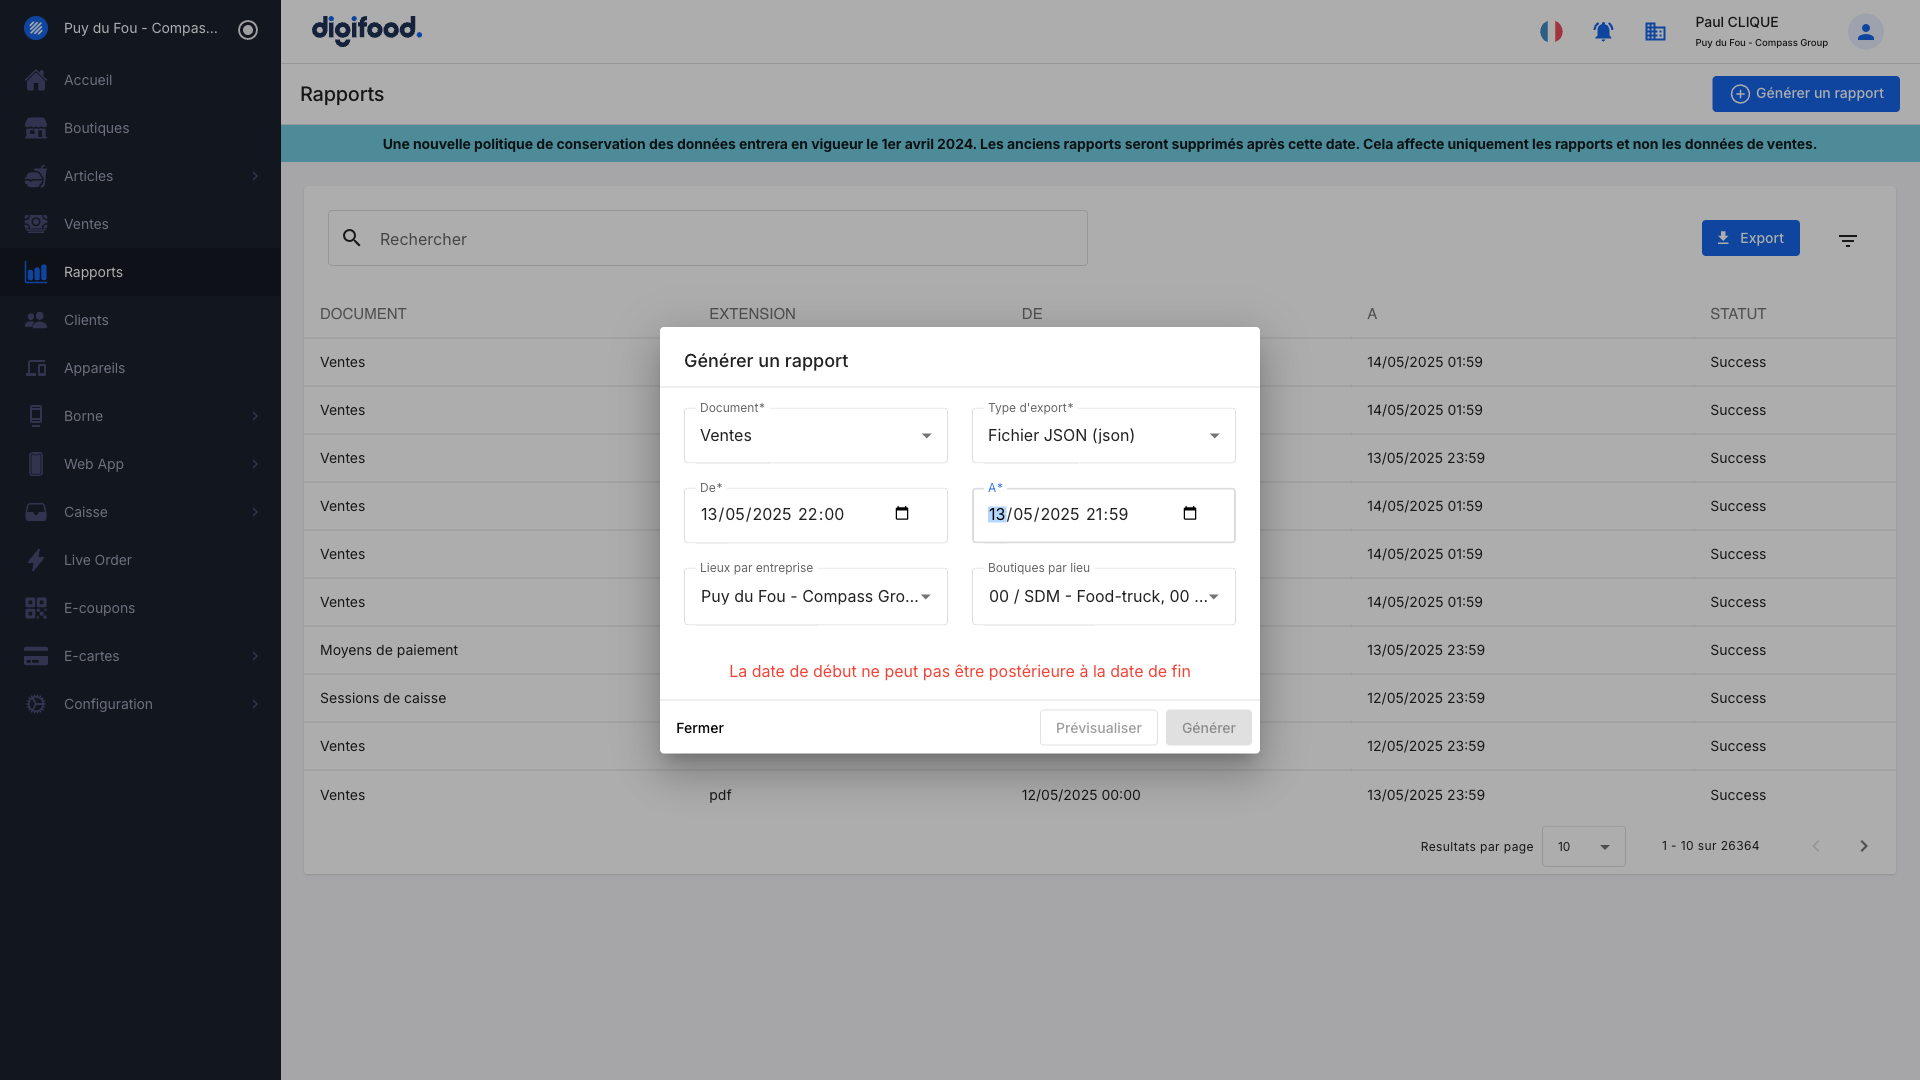
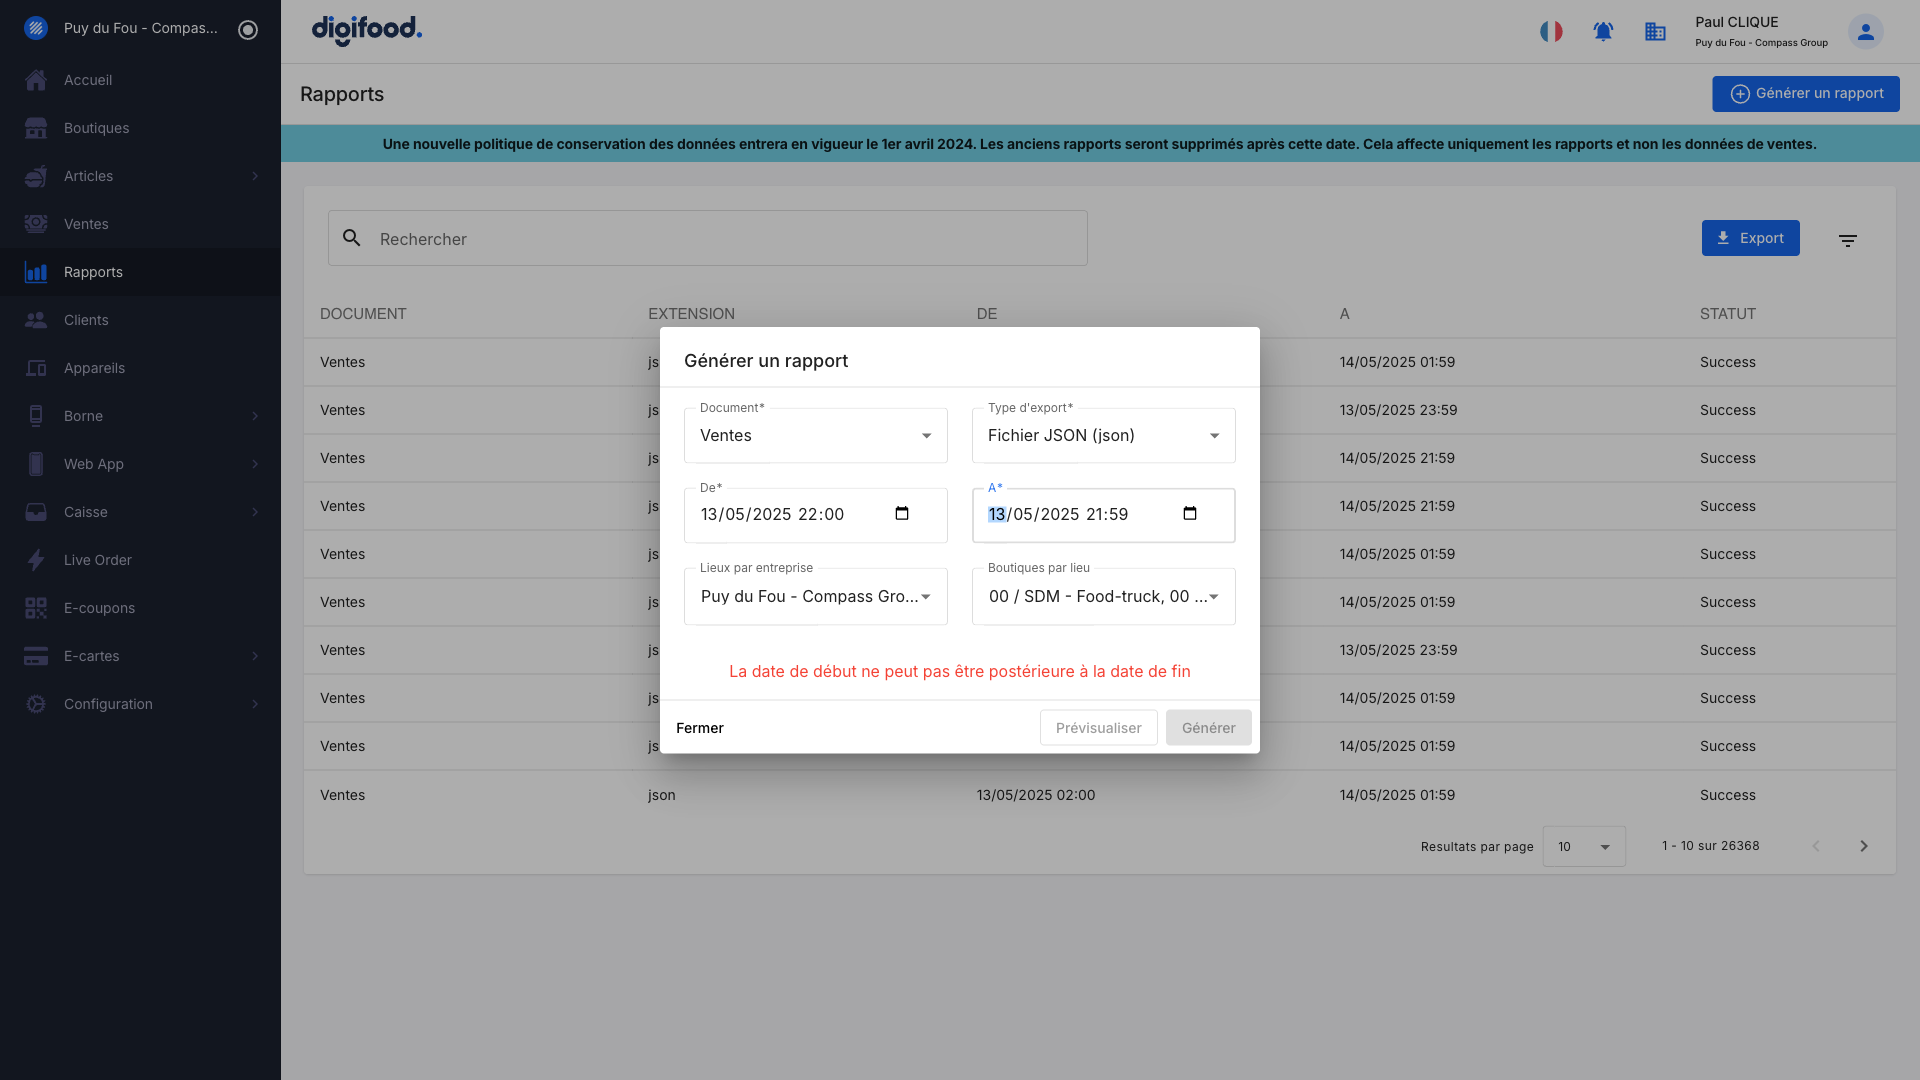
update script

diff --git a/script.py b/script.py
@@ -1,6 +1,6 @@
 from playwright.sync_api import sync_playwright
 import os
-from datetime import datetime
+from datetime import datetime, timedelta
 from dotenv import load_dotenv
 from pathlib import Path
 import requests
@@ -335,7 +335,8 @@ def configurer_et_generer_rapport(page):
     
     # Ajuster les heures pour avoir 22:00-21:59
     date_debut = now_paris.replace(hour=22, minute=0, second=0, microsecond=0)
-    date_fin = now_paris.replace(hour=21, minute=59, second=59, microsecond=999999)
+    # La date de fin doit être le jour suivant
+    date_fin = (now_paris + timedelta(days=1)).replace(hour=21, minute=59, second=59, microsecond=999999)
 
     logger.info(f"Période d'export (Paris): {date_debut} - {date_fin}")
     
